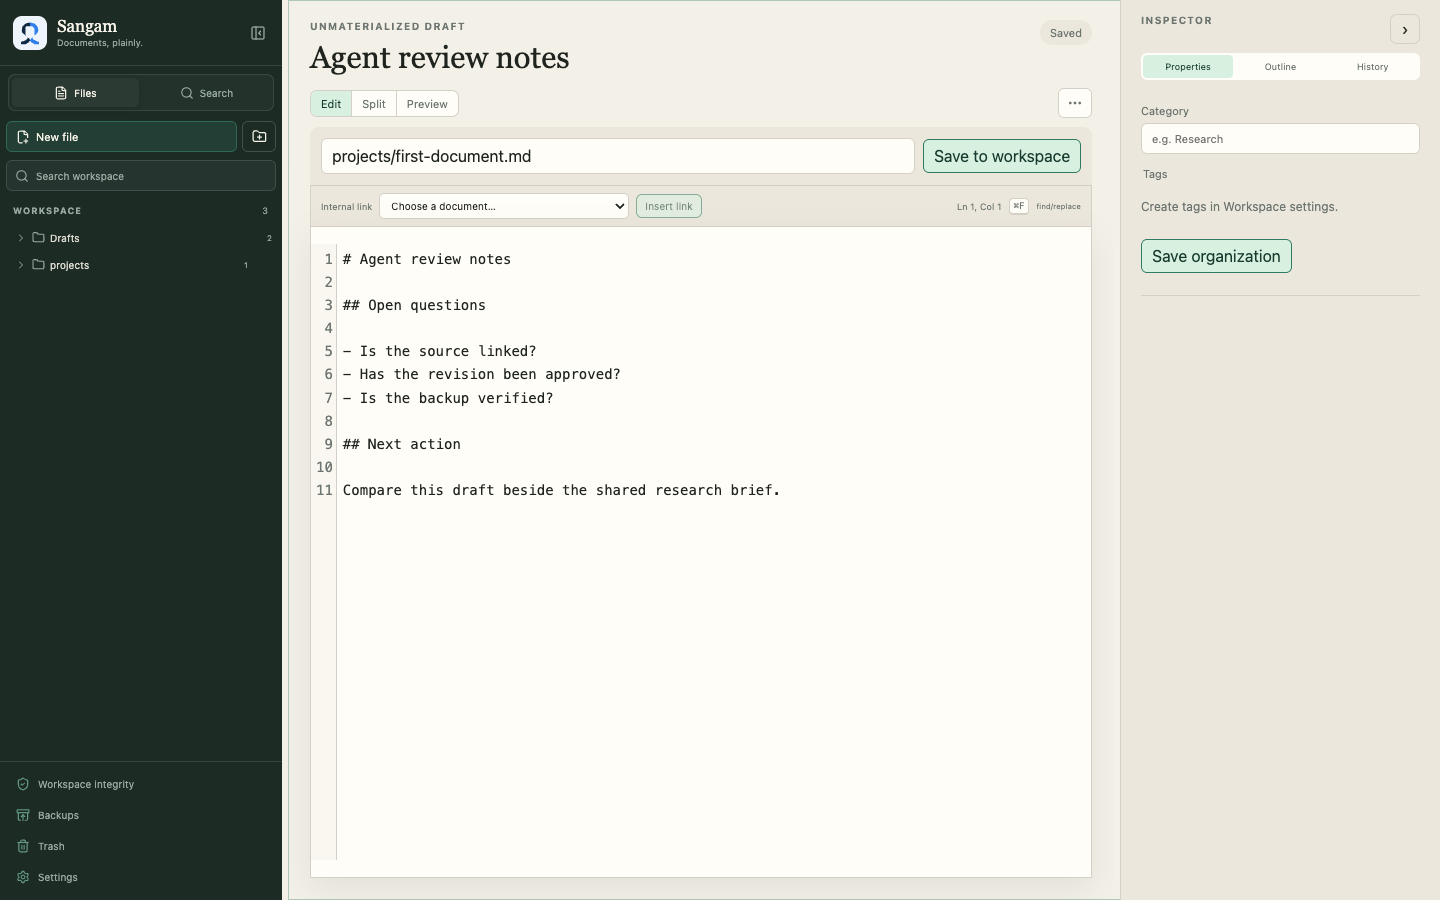
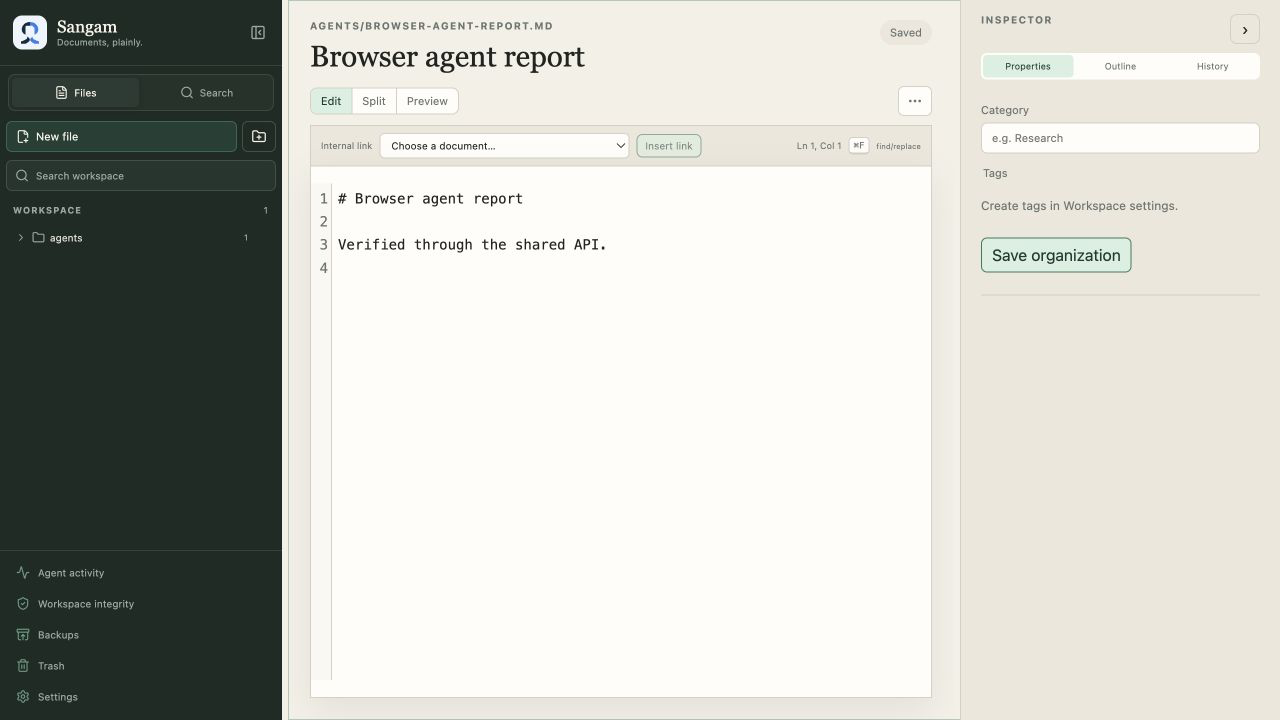
Refresh Phase 3 README screenshots

diff --git a/README.md b/README.md
@@ -31,29 +31,30 @@ be expired, revoked, or rotated from the browser.
 
 ## Screenshots
 
-### Focused single-editor workspace
+### Focused document workspace
 
 Sangam starts with one editor and no permanent tab or status strip. Files,
-search, maintenance tools, document properties, and save state remain available
-without forcing a split layout.
+search, agent activity, maintenance tools, document properties, and save state
+remain available without forcing a split layout.
 
-![Sangam workbench with one Markdown editor, file explorer, document inspector, and the Sangam logo](./docs/assets/workbench-single.png)
+![Current Sangam document workspace with the file explorer, Markdown editor, document inspector, and Agent activity navigation](./docs/assets/workbench-single.png)
 
-### User-created editor groups
+### Scoped agent access
 
-Editor groups can be split horizontally or vertically, nested, resized, closed,
-and restored with the browser session. The document inspector steps out of the
-way while multiple groups are open.
+The Agents & tokens settings issue one-time credentials with explicit
+capabilities, optional expiry, and workspace path boundaries. Issued tokens can
+be rotated or revoked without erasing their historical attribution.
 
-![Sangam workbench with rendered agent review notes beside an editable research brief](./docs/assets/workbench-splits.png)
+![Current Sangam Agents and tokens settings with appearance choices, scoped capabilities, and path controls](./docs/assets/phase-3-agents.png)
 
-### Settings and recovery controls
+### Reviewable agent activity
 
-Settings distinguish browser-local preferences from shared workspace metadata.
-Reconciliation, backups, and trash remain direct workspace destinations instead
-of masquerading as settings.
+The activity timeline keeps accepted, denied, conflicted, and failed agent
+operations reviewable without exposing credential secrets or document bodies.
+Events retain actor, token label, path, outcome, operation ID, and document links
+where applicable.
 
-![Sangam settings page with themes, workbench preferences, organization, and maintenance](./docs/assets/workbench-settings.png)
+![Current Sangam agent activity timeline showing one denied and one accepted document operation](./docs/assets/phase-3-activity.png)
 
 ## Project documents
 